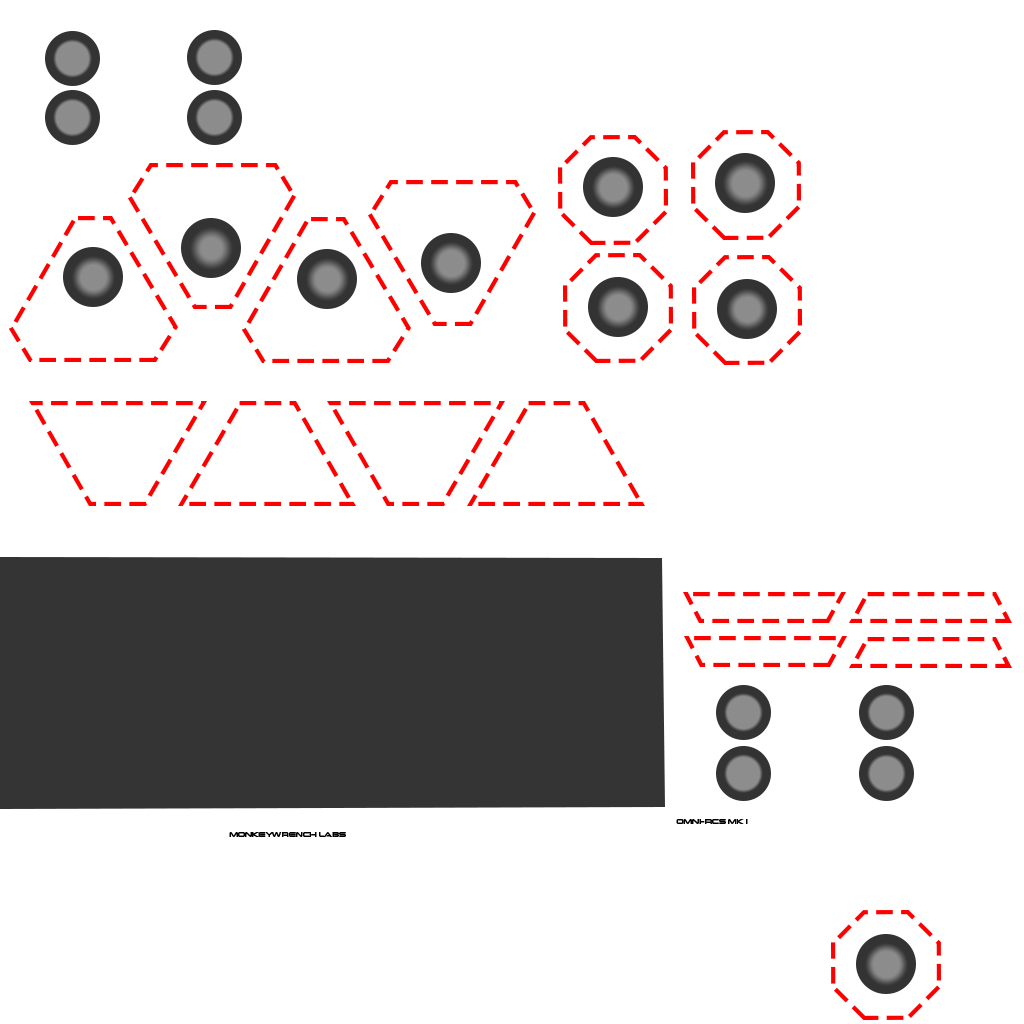
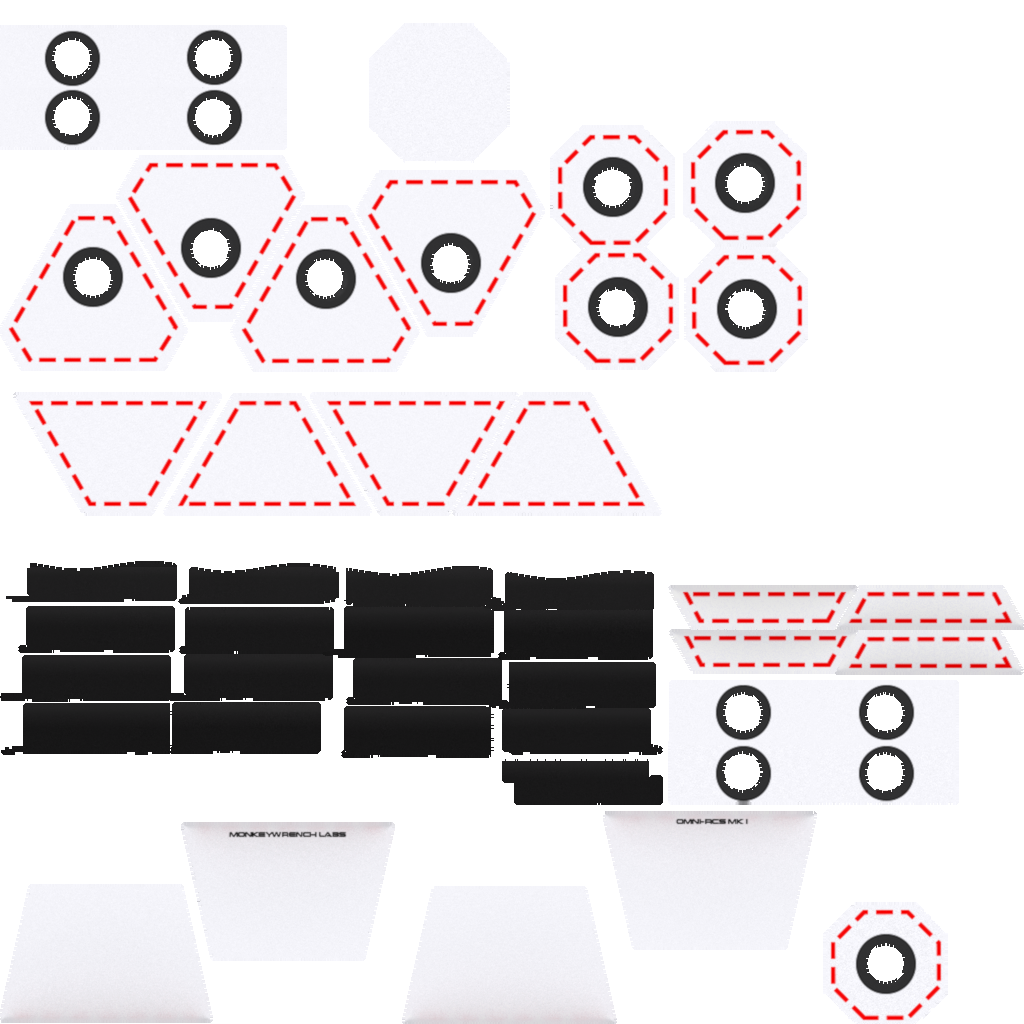
Updated texture for OmniRCS.

diff --git a/README.md b/README.md
@@ -1,12 +1,20 @@
 MonkeyWrench
+When subtlety and finesse just won't do.
 ============
+A variety of new and customized parts, adding more flexibility both on the ground and mid-mission.
 
-Custom configuration package designed to allow far more flexibility in mid-mission reconfiguration
 
 ===============================================================
-New parts via config file adjustments:
+New parts:
 ----------------------------------
-+ New Vernier 4-way RCS, based off of B9 12-nozzle RCS module (Uses ModuleRCSFX)
++ New Vernier omnidirectional RCS, uses LFO mix (Uses ModuleRCSFX)
+	Designed for moving heavy craft and stations around. TweakScale compatible for even bigger (and smaller) uses.
+	* Note: currently an issue with displaying the RCS plumes. Looking into this.
++ Coming soon!
++ Coming soon!
+
+Config file adjustments to add functionality to existing parts
+----------------------------------
 + Short range radio and MechJeb added to Universal Storage EVA-X pack for RemoteTech
 + KAS-grabbable MechJeb AR202
 
